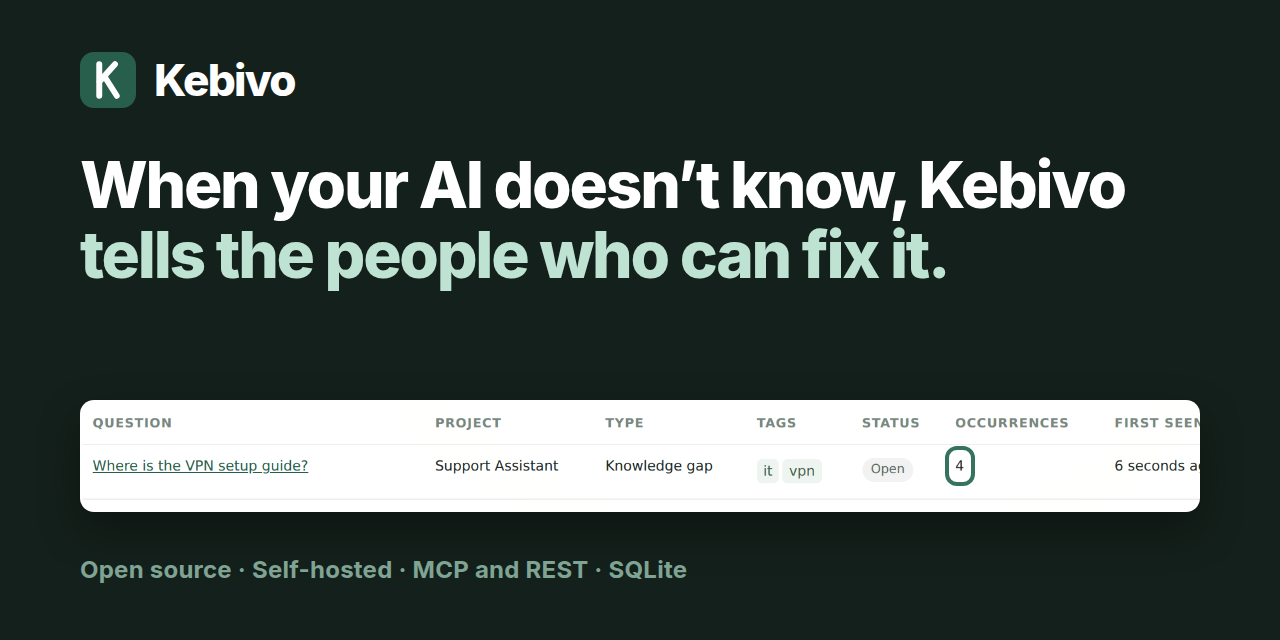
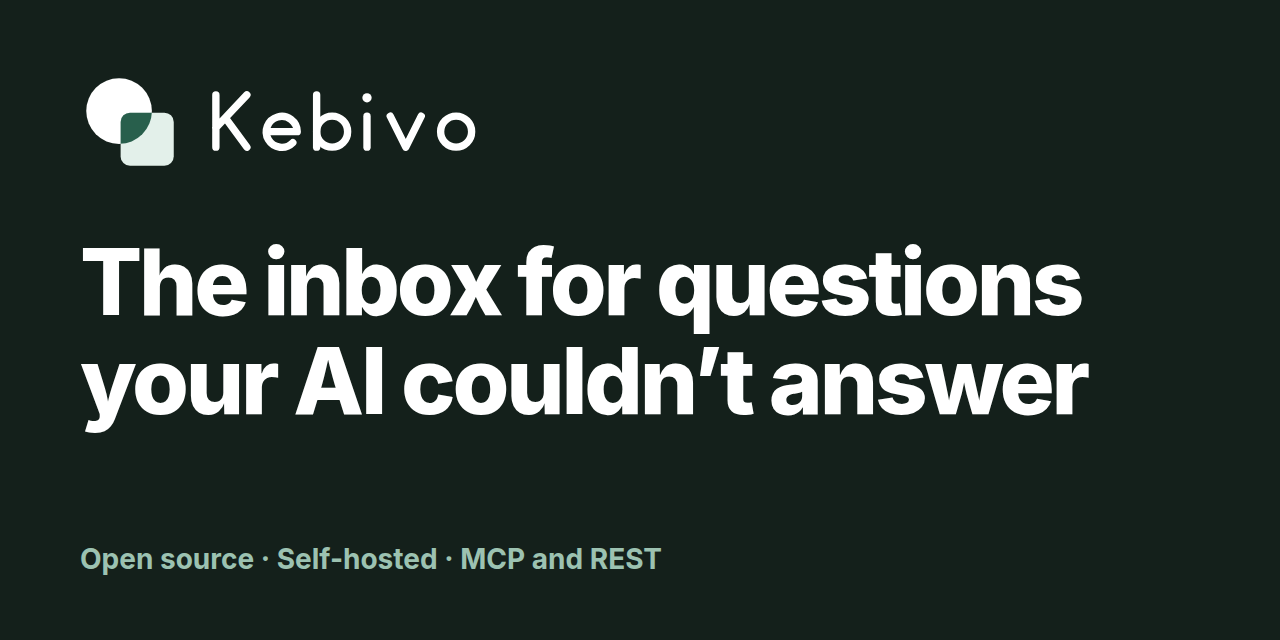
Add developer-question README screenshots and a new social preview
Screenshots are from a 0.2.0 container with sample API-docs questions (repeat counts above 1). Social preview is 1280x640 with the new lockup.

Changed region(s): [[0.0625, 0.0625, 0.9375, 0.8125], [0.0625, 0.8438, 0.5312, 0.9062]]

diff --git a/docs/assets/social-preview.html b/docs/assets/social-preview.html
@@ -6,18 +6,10 @@
   @font-face { font-family: Inter; font-weight: 800; src: url(demo-src/src/fonts/inter-latin-800-normal.woff2) format('woff2'); }
   * { box-sizing: border-box; margin: 0; }
   body { width: 1280px; height: 640px; overflow: hidden; background: #14201b; color: #fff; font-family: Inter, system-ui, sans-serif; position: relative; }
-  .brand { position: absolute; left: 80px; top: 52px; display: flex; align-items: center; gap: 18px; }
-  .brand img { width: 56px; height: 56px; }
-  .brand span { font-size: 44px; font-weight: 800; letter-spacing: -.04em; }
-  h1 { position: absolute; left: 80px; top: 150px; width: 1120px; font-size: 64px; line-height: 1.1; font-weight: 800; letter-spacing: -.035em; }
-  h1 em { font-style: normal; color: #bfe3d3; }
-  .card { position: absolute; left: 80px; top: 400px; width: 1120px; height: 112px; border-radius: 14px; overflow: hidden; background: #f6f8f6 url(demo-src/shots/inbox-4.png) no-repeat;
-    background-size: 1626px auto; background-position: -89px -510px; box-shadow: 0 18px 40px rgba(0,0,0,.35); }
-  .ring { position: absolute; left: 945px; top: 446px; width: 30px; height: 40px; border: 4px solid #35735e; border-radius: 12px; }
-  .tags { position: absolute; left: 80px; bottom: 56px; font-size: 24px; font-weight: 700; color: #7fa493; letter-spacing: .01em; }
+  .logo { position: absolute; left: 80px; top: 72px; width: 400px; height: 100px; }
+  h1 { position: absolute; left: 80px; top: 232px; width: 1120px; font-size: 92px; line-height: 1.08; font-weight: 800; letter-spacing: -.035em; }
+  .tags { position: absolute; left: 80px; bottom: 64px; font-size: 28px; font-weight: 700; color: #9cc2b1; }
 </style>
-<div class="brand"><svg xmlns="http://www.w3.org/2000/svg" viewBox="0 0 32 32" width="56" height="56"><rect width="32" height="32" rx="8" fill="#285f4c"/><path d="M11 7v18M11 17l9-10M14 14l7 11" stroke="#fff" stroke-width="3.4" stroke-linecap="round" stroke-linejoin="round" fill="none"/></svg><span>Kebivo</span></div>
-<h1>When your AI doesn’t know, Kebivo<br><em>tells the people who can fix it.</em></h1>
-<div class="card"></div>
-<div class="ring"></div>
-<div class="tags">Open source · Self-hosted · MCP and REST · SQLite</div>
+<img class="logo" src="logo/lockup-dark.svg" alt="Kebivo">
+<h1>The inbox for questions your AI couldn’t answer</h1>
+<div class="tags">Open source · Self-hosted · MCP and REST</div>
